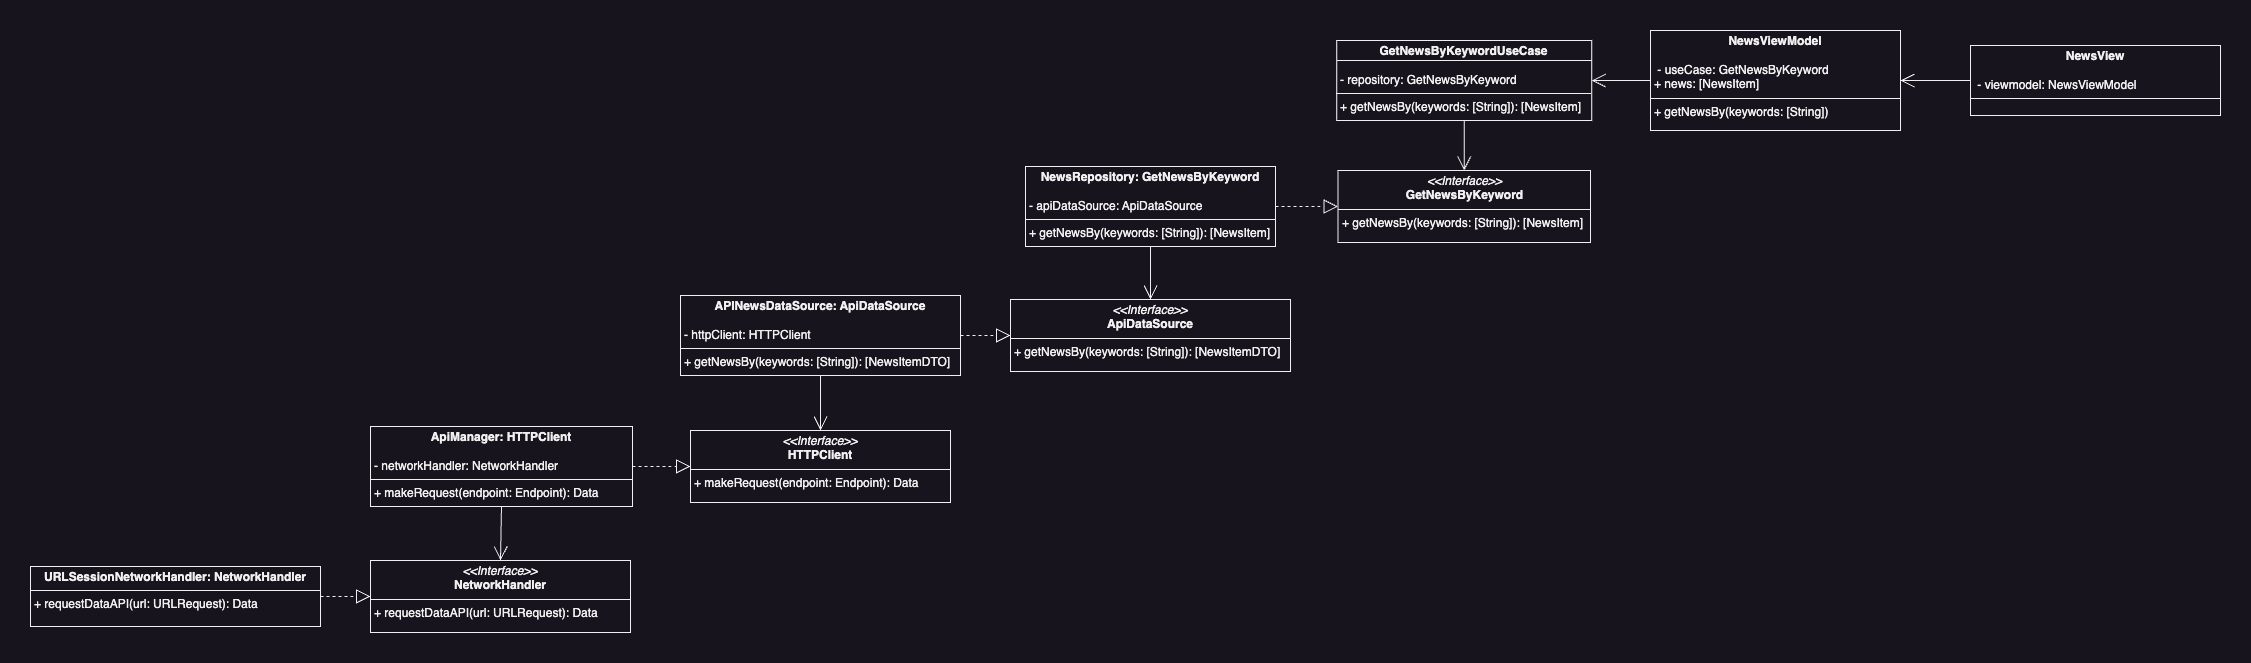
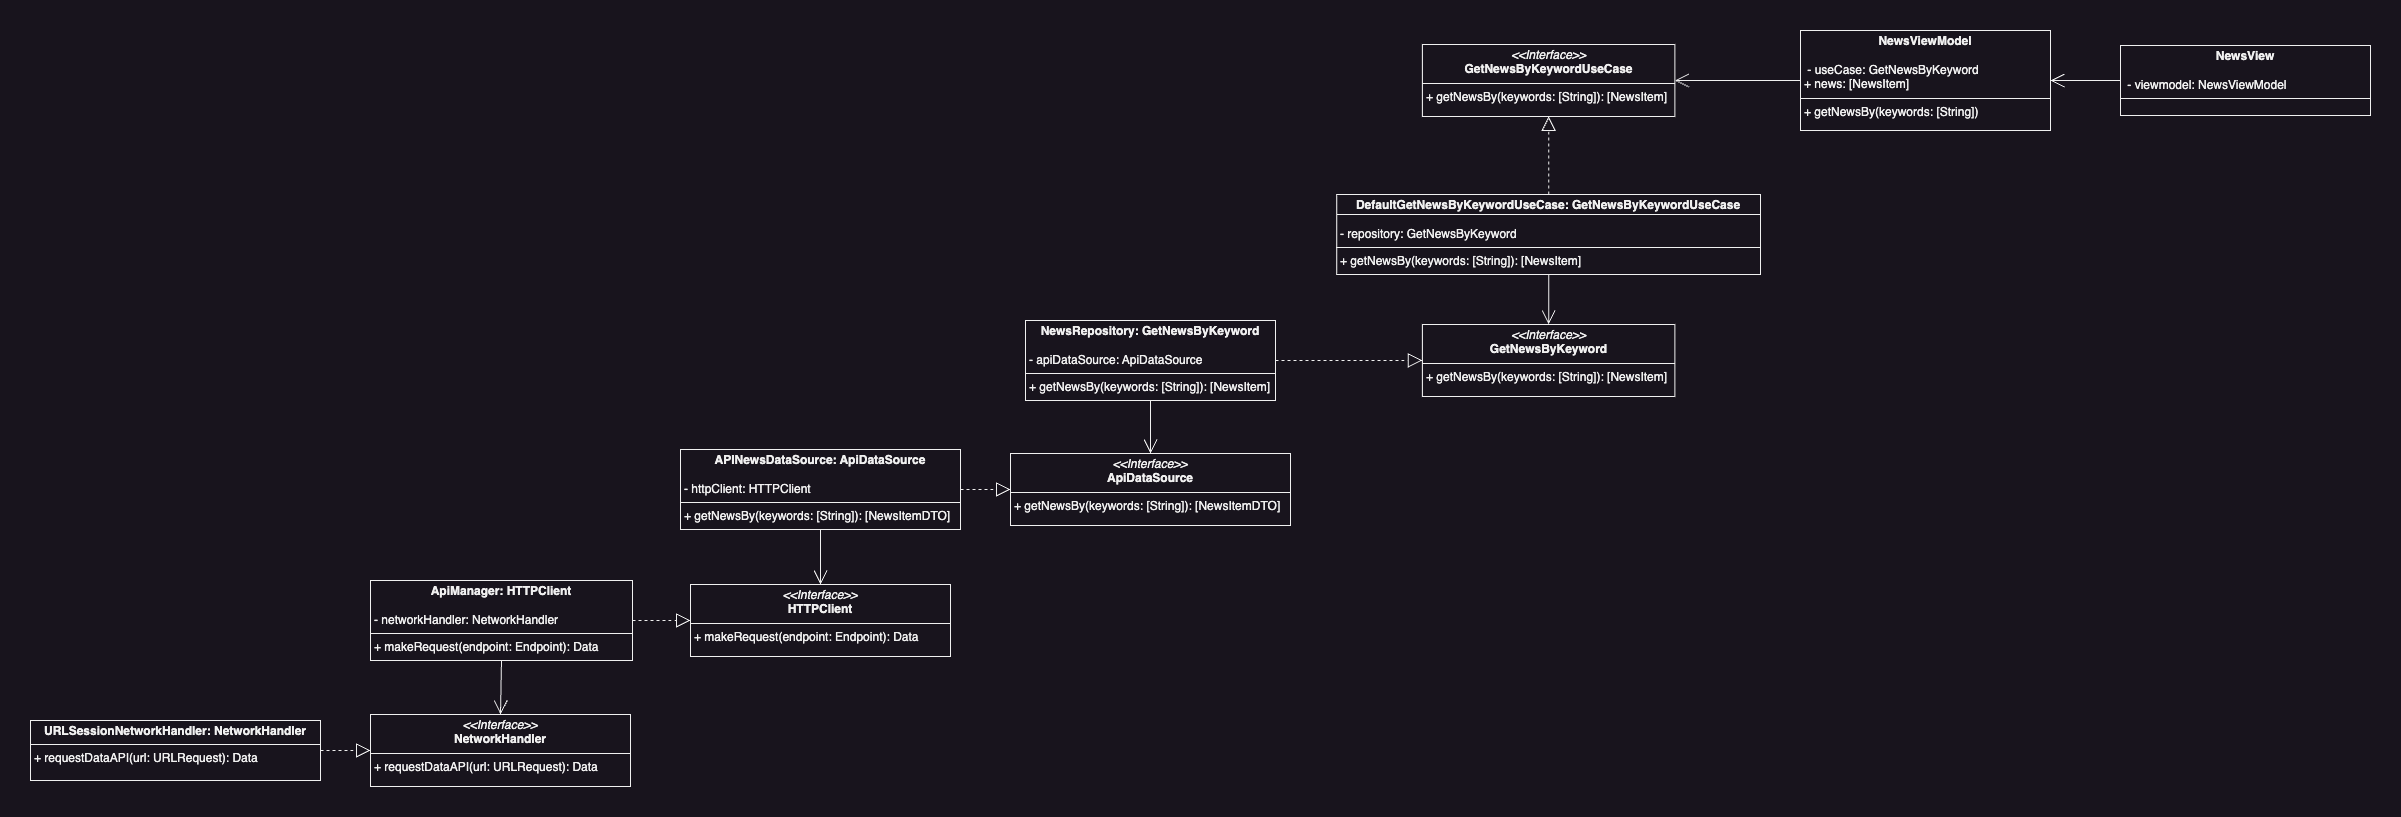
change images and update article

diff --git a/002_clean_architecture/article.md b/002_clean_architecture/article.md
@@ -234,4 +234,10 @@ Bien, volvamos a la capa de adaptadores, pero veamos qué tenemos a la derecha d
 
 ### Adapters -> Presenters
 
-En construcción...
+![Capa de presentadores, muestra un ViewModel](images/uml5.jpg)
+
+En el otro lado del flujo de datos nos encontramos con los presenters. Al igual que hacían en la capa de repositorios aquí también actúan de intermediarios entre los casos de uso y, en este caso, la interfaz de usuario. 
+
+Los presenters reciben los datos de los casos de  uso y los preparan para su uso en la interfaz de usuario correspondiente, en nuestro caso vistas de SwiftUI o Composables de Jetpack Compose. Con esto se garantiza que la vista reciba solo los datos que necesita y en el formato que los necesita. 
+
+// TODO: Cambiar imagen y adaptar texto
